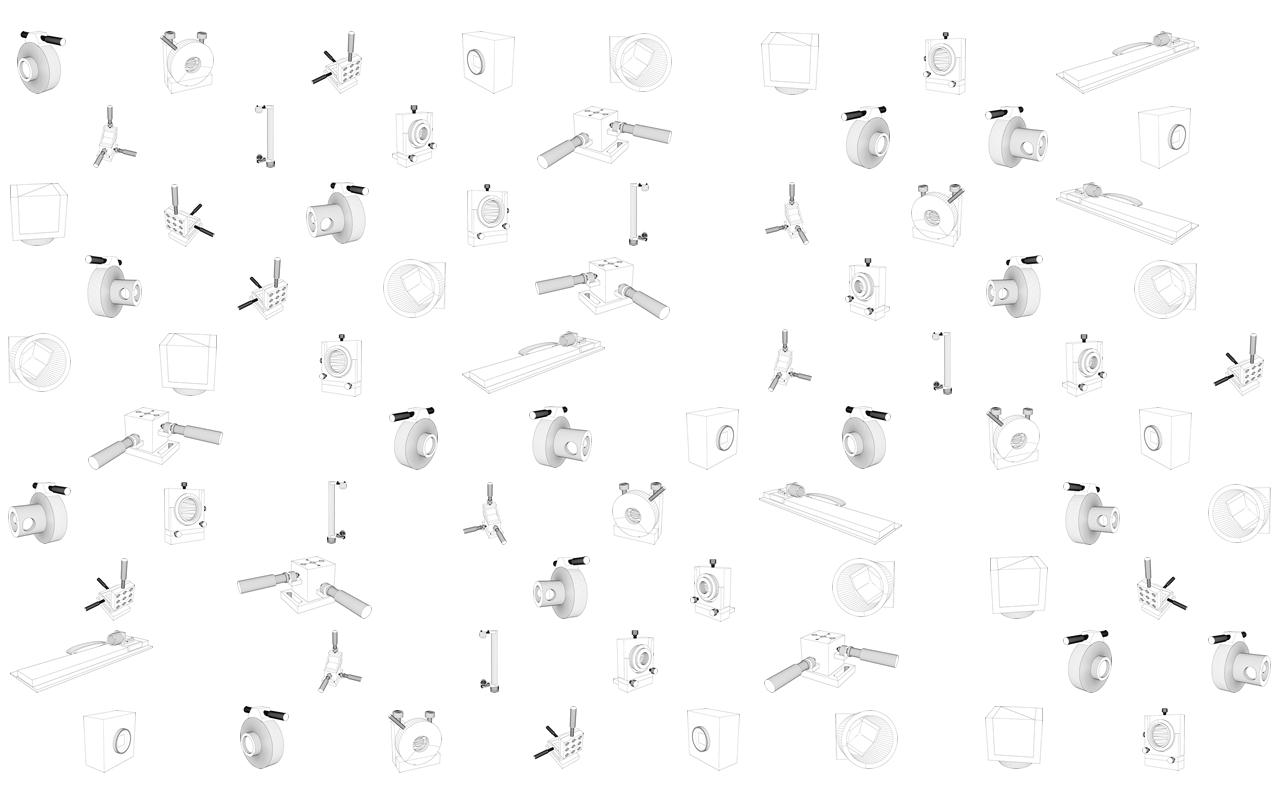
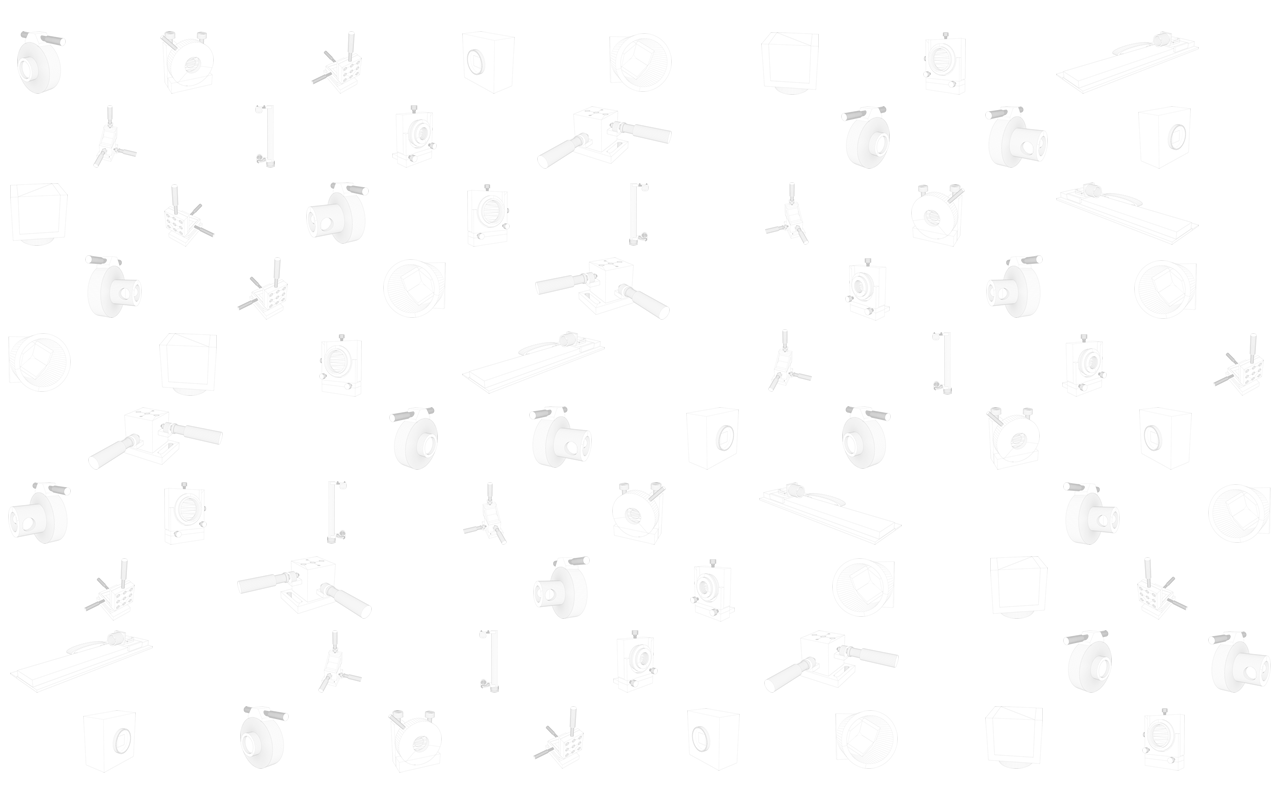
Updated sizing issues for larger screens

diff --git a/style.css b/style.css
@@ -1,5 +1,5 @@
 html {
-  background-color: rgba(245,255,245,1);
+  background-color: rgba(253,255,253,1);
   background-image: url("./background/150sq/background_transparent.png");
   background-repeat: repeat;
   background-size: contain;
@@ -8,7 +8,7 @@ html {
 .container {
   display: block;
   box-sizing: border-box;
-  background-color: rgba(255,255,255,0.75);
+  background-color: rgba(255,255,255,0.95);
   min-width: 100%;
   max-width: 100%;
   margin: auto;
@@ -103,7 +103,7 @@ a:visited {
   //max-height: 30vh;
   object-fit: cover;
   object-position: 50% 50%;
-  opacity: 50%;
+  opacity: 90%;
   top: 0;
   left: 0;
 }
@@ -190,6 +190,7 @@ a:visited {
 }
 
 .newsSec {
+  background-color: rgba(255,255,255,0.95);
   display: grid;
   grid-template-columns: 100%;
   grid-template-rows: auto;
@@ -203,13 +204,18 @@ a:visited {
 }
 
 .newsCard {
-  background-color: rgba(255,255,255,0.75);
+  background-color: rgba(255,255,255,0.95);
   display: grid;
   grid-template-rows: 2fr 1fr 2fr;
   grid-template-columns: 1fr 3fr; 
-  box-shadow: 2px 5px 5px 1px rgba(0, 0, 0, 0.5);
   width: 99%;
   height: 25vh;
+}
+
+.divline {
+  display: inline-block;
+  border-top: 1px solid black;
+  width: 100%;
 }
 
 .newsImg {
@@ -429,7 +435,37 @@ footer {
   font-family: "Open Sans", sans-serif;
 }
 
-@media only screen and (min-width: 1000px) and (max-width: 1300px) {
+@media only screen and (min-width: 1441px) {
+  .container {
+    min-width: 1080px;
+    max-width: 75%;
+  }
+
+  .newsCard {
+    padding-bottom: 1vh;
+  }
+
+  .divline {
+    padding-bottom: 1vh;
+  }
+}
+
+@media only screen and (min-width: 1081px) and (max-width: 1440px) {
+  .container {
+    min-width: 720px;
+    max-width: 1080px;
+  }
+
+  .newsCard {
+    padding-bottom: 1vh;
+  }
+
+  .divline {
+    padding-bottom: 1vh;
+  }
+}
+
+@media only screen and (min-width: 720px) and (max-width: 1080px) {
   .deckSec {
     display: grid;
     grid-template-columns: repeat(2,1fr); // limit in smaller screens
@@ -452,9 +488,13 @@ footer {
   .mainContent {
     padding-top: 10vh;
   }
+
+  .newsCard {
+    box-shadow: 2px 5px 5px 1px rgba(0, 0, 0, 0.5);
+  }
 }
 
-@media only screen and (max-width: 999px) and (min-width: 500px) {
+@media only screen and (max-width: 719px) and (min-width: 500px) {
   .deckSec {
     display: grid;
     grid-template-columns: repeat(1,1fr); // limit in smaller screens
@@ -500,6 +540,10 @@ footer {
     vertical-align: middle;
     margin-left: 1vh;
     margin-right: 1vh;
+  }
+
+  .newsCard {
+    box-shadow: 2px 5px 5px 1px rgba(0, 0, 0, 0.5);
   }
 }
 
@@ -560,6 +604,10 @@ footer {
 
   .newsDetail {
     font-size: 0.75rem;
+  }
+
+  .newsCard {
+    box-shadow: 2px 5px 5px 1px rgba(0, 0, 0, 0.5);
   }
   
   .navButton {

diff --git a/scripts/news_scroller.js b/scripts/news_scroller.js
@@ -124,7 +124,10 @@ for (var i = 0; i < numRows; i++) // Change this 5 to however many images you ha
     divele.appendChild(titleele);
     divele.appendChild(dateele);
     divele.appendChild(detailele);
+    var divlineele = document.createElement("div");
+    divlineele.className = "divline";
     document.getElementById("newsSec").appendChild(divele);
+    document.getElementById("newsSec").appendChild(divlineele);
     numLoaded++;
 }
 
@@ -200,7 +203,10 @@ function getPhotos()
             divele.appendChild(titleele);
             divele.appendChild(dateele);
             divele.appendChild(detailele);
+            var divlineele = document.createElement("div");
+            divlineele.className = "divline";
             document.getElementById("newsSec").appendChild(divele);
+            document.getElementById("newsSec").appendChild(divlineele);
             numLoaded++;
         }
     }
